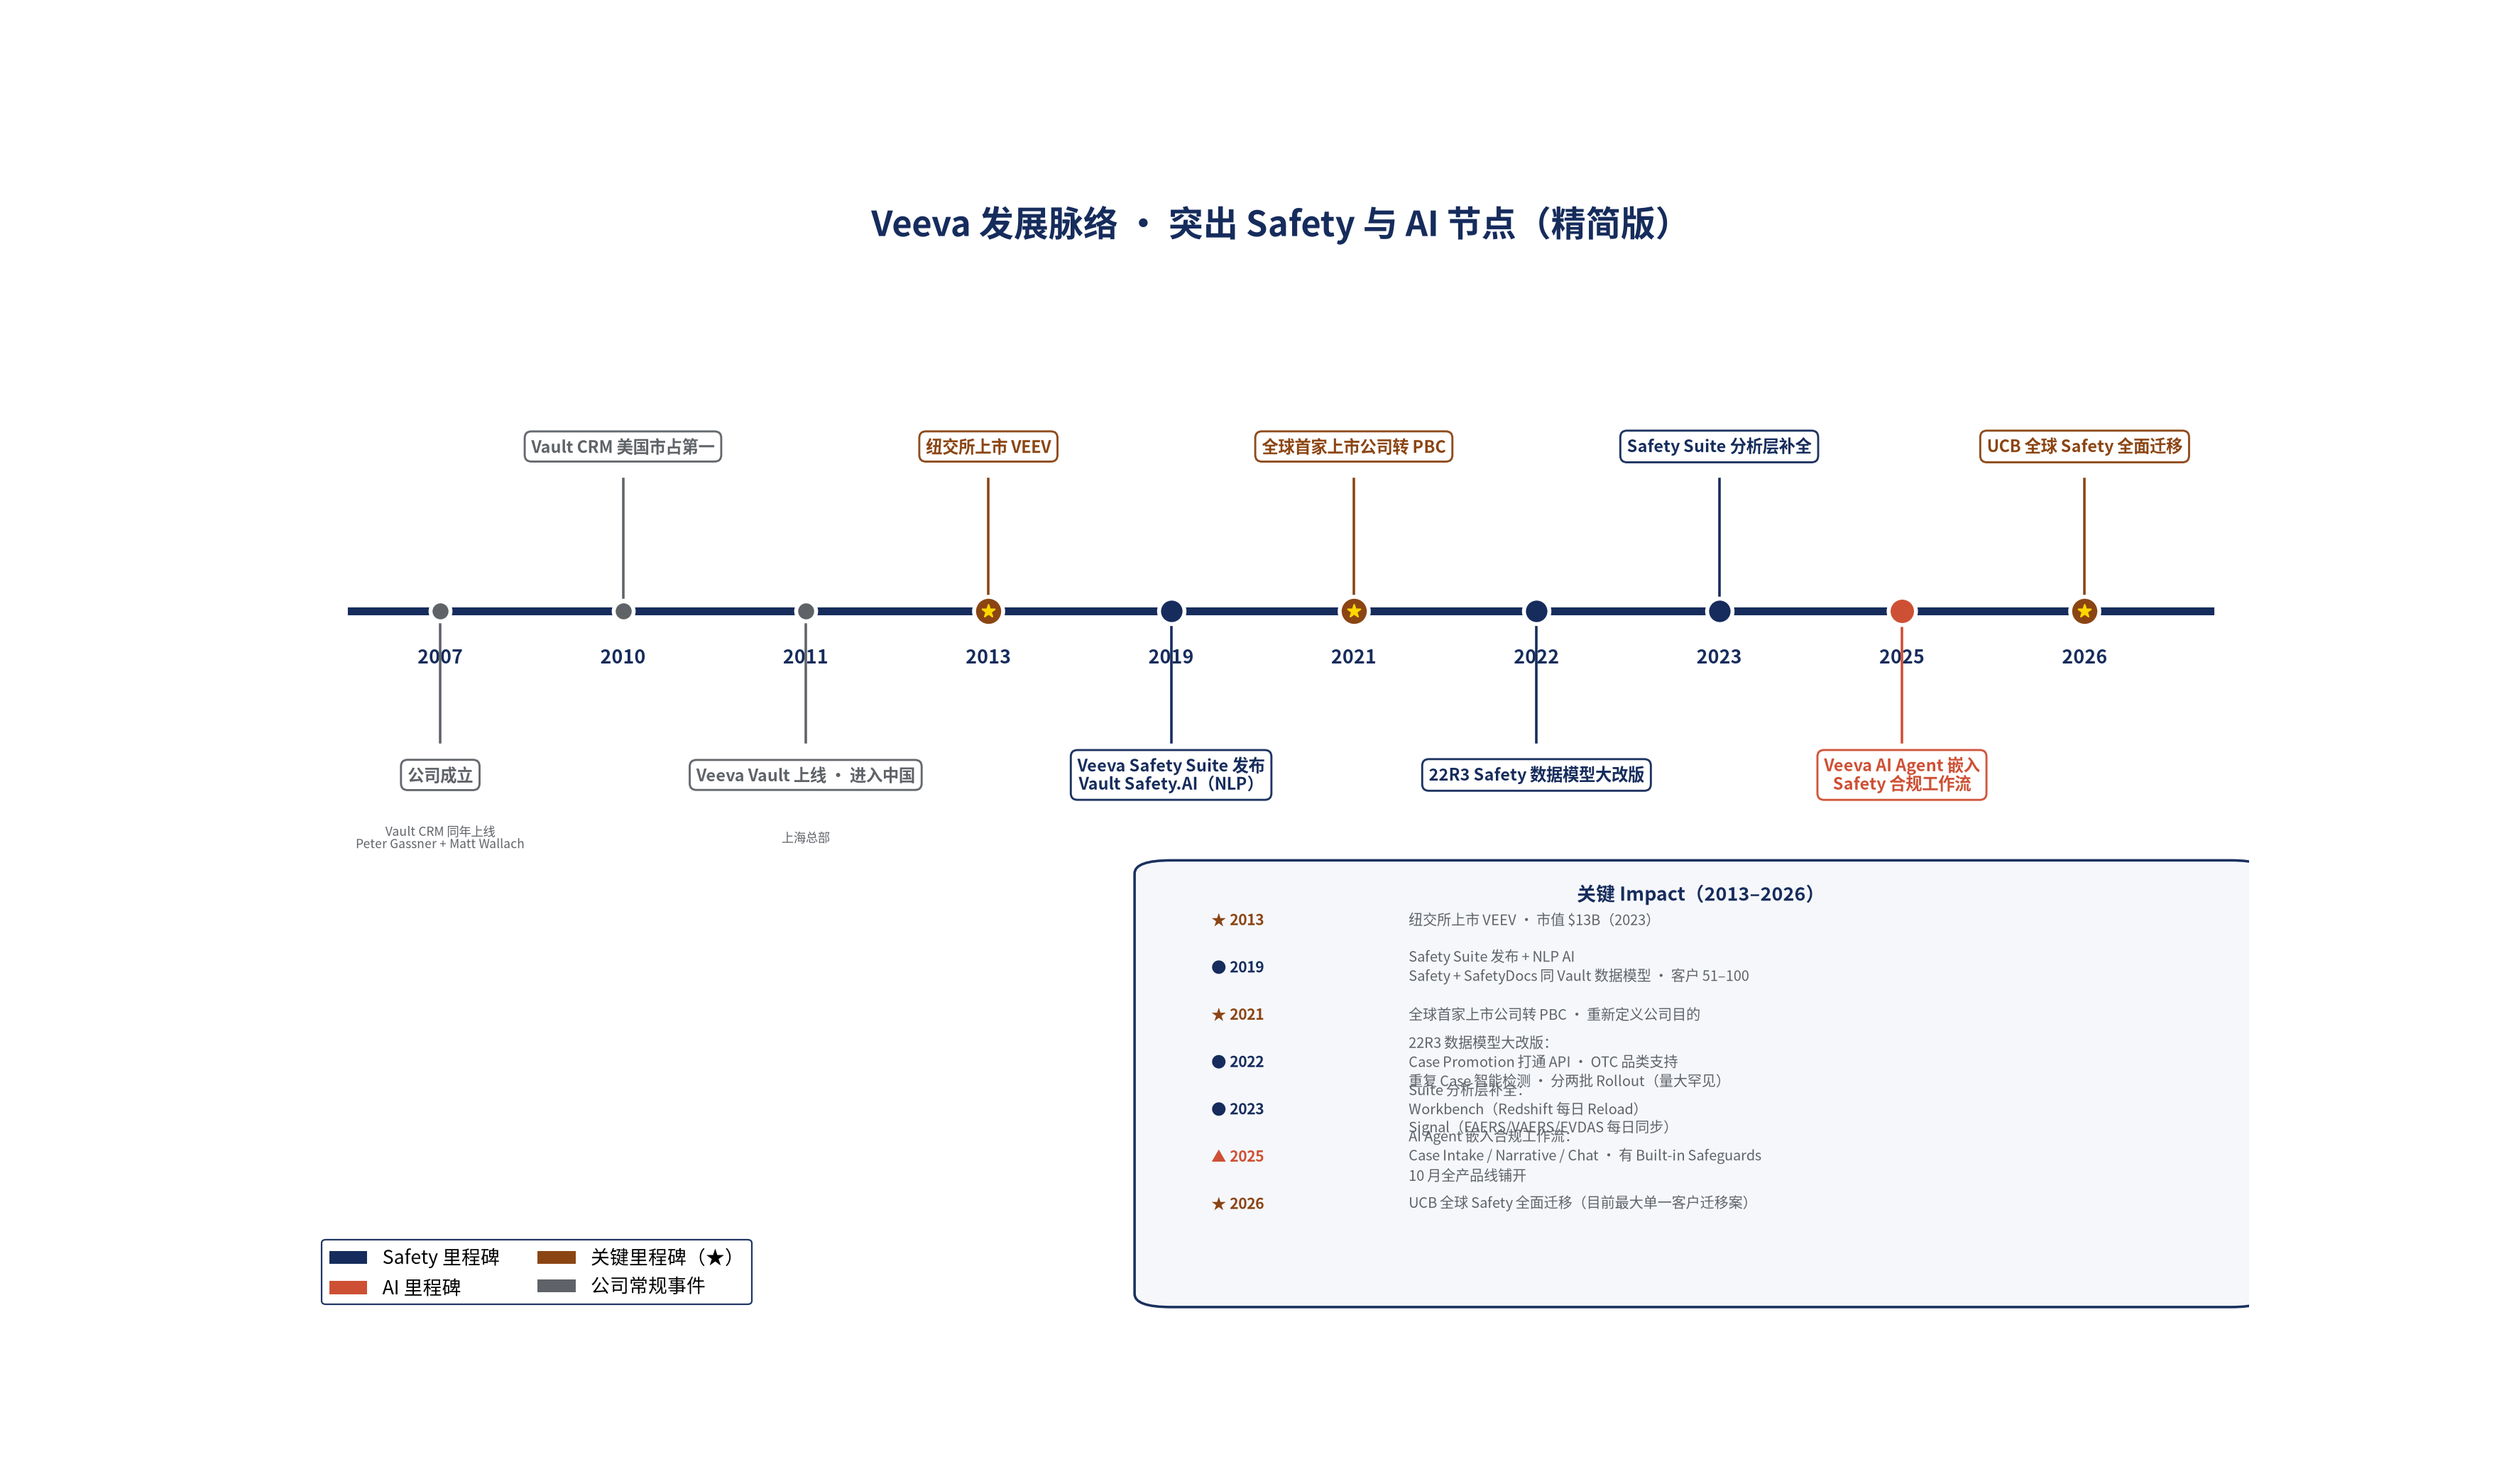
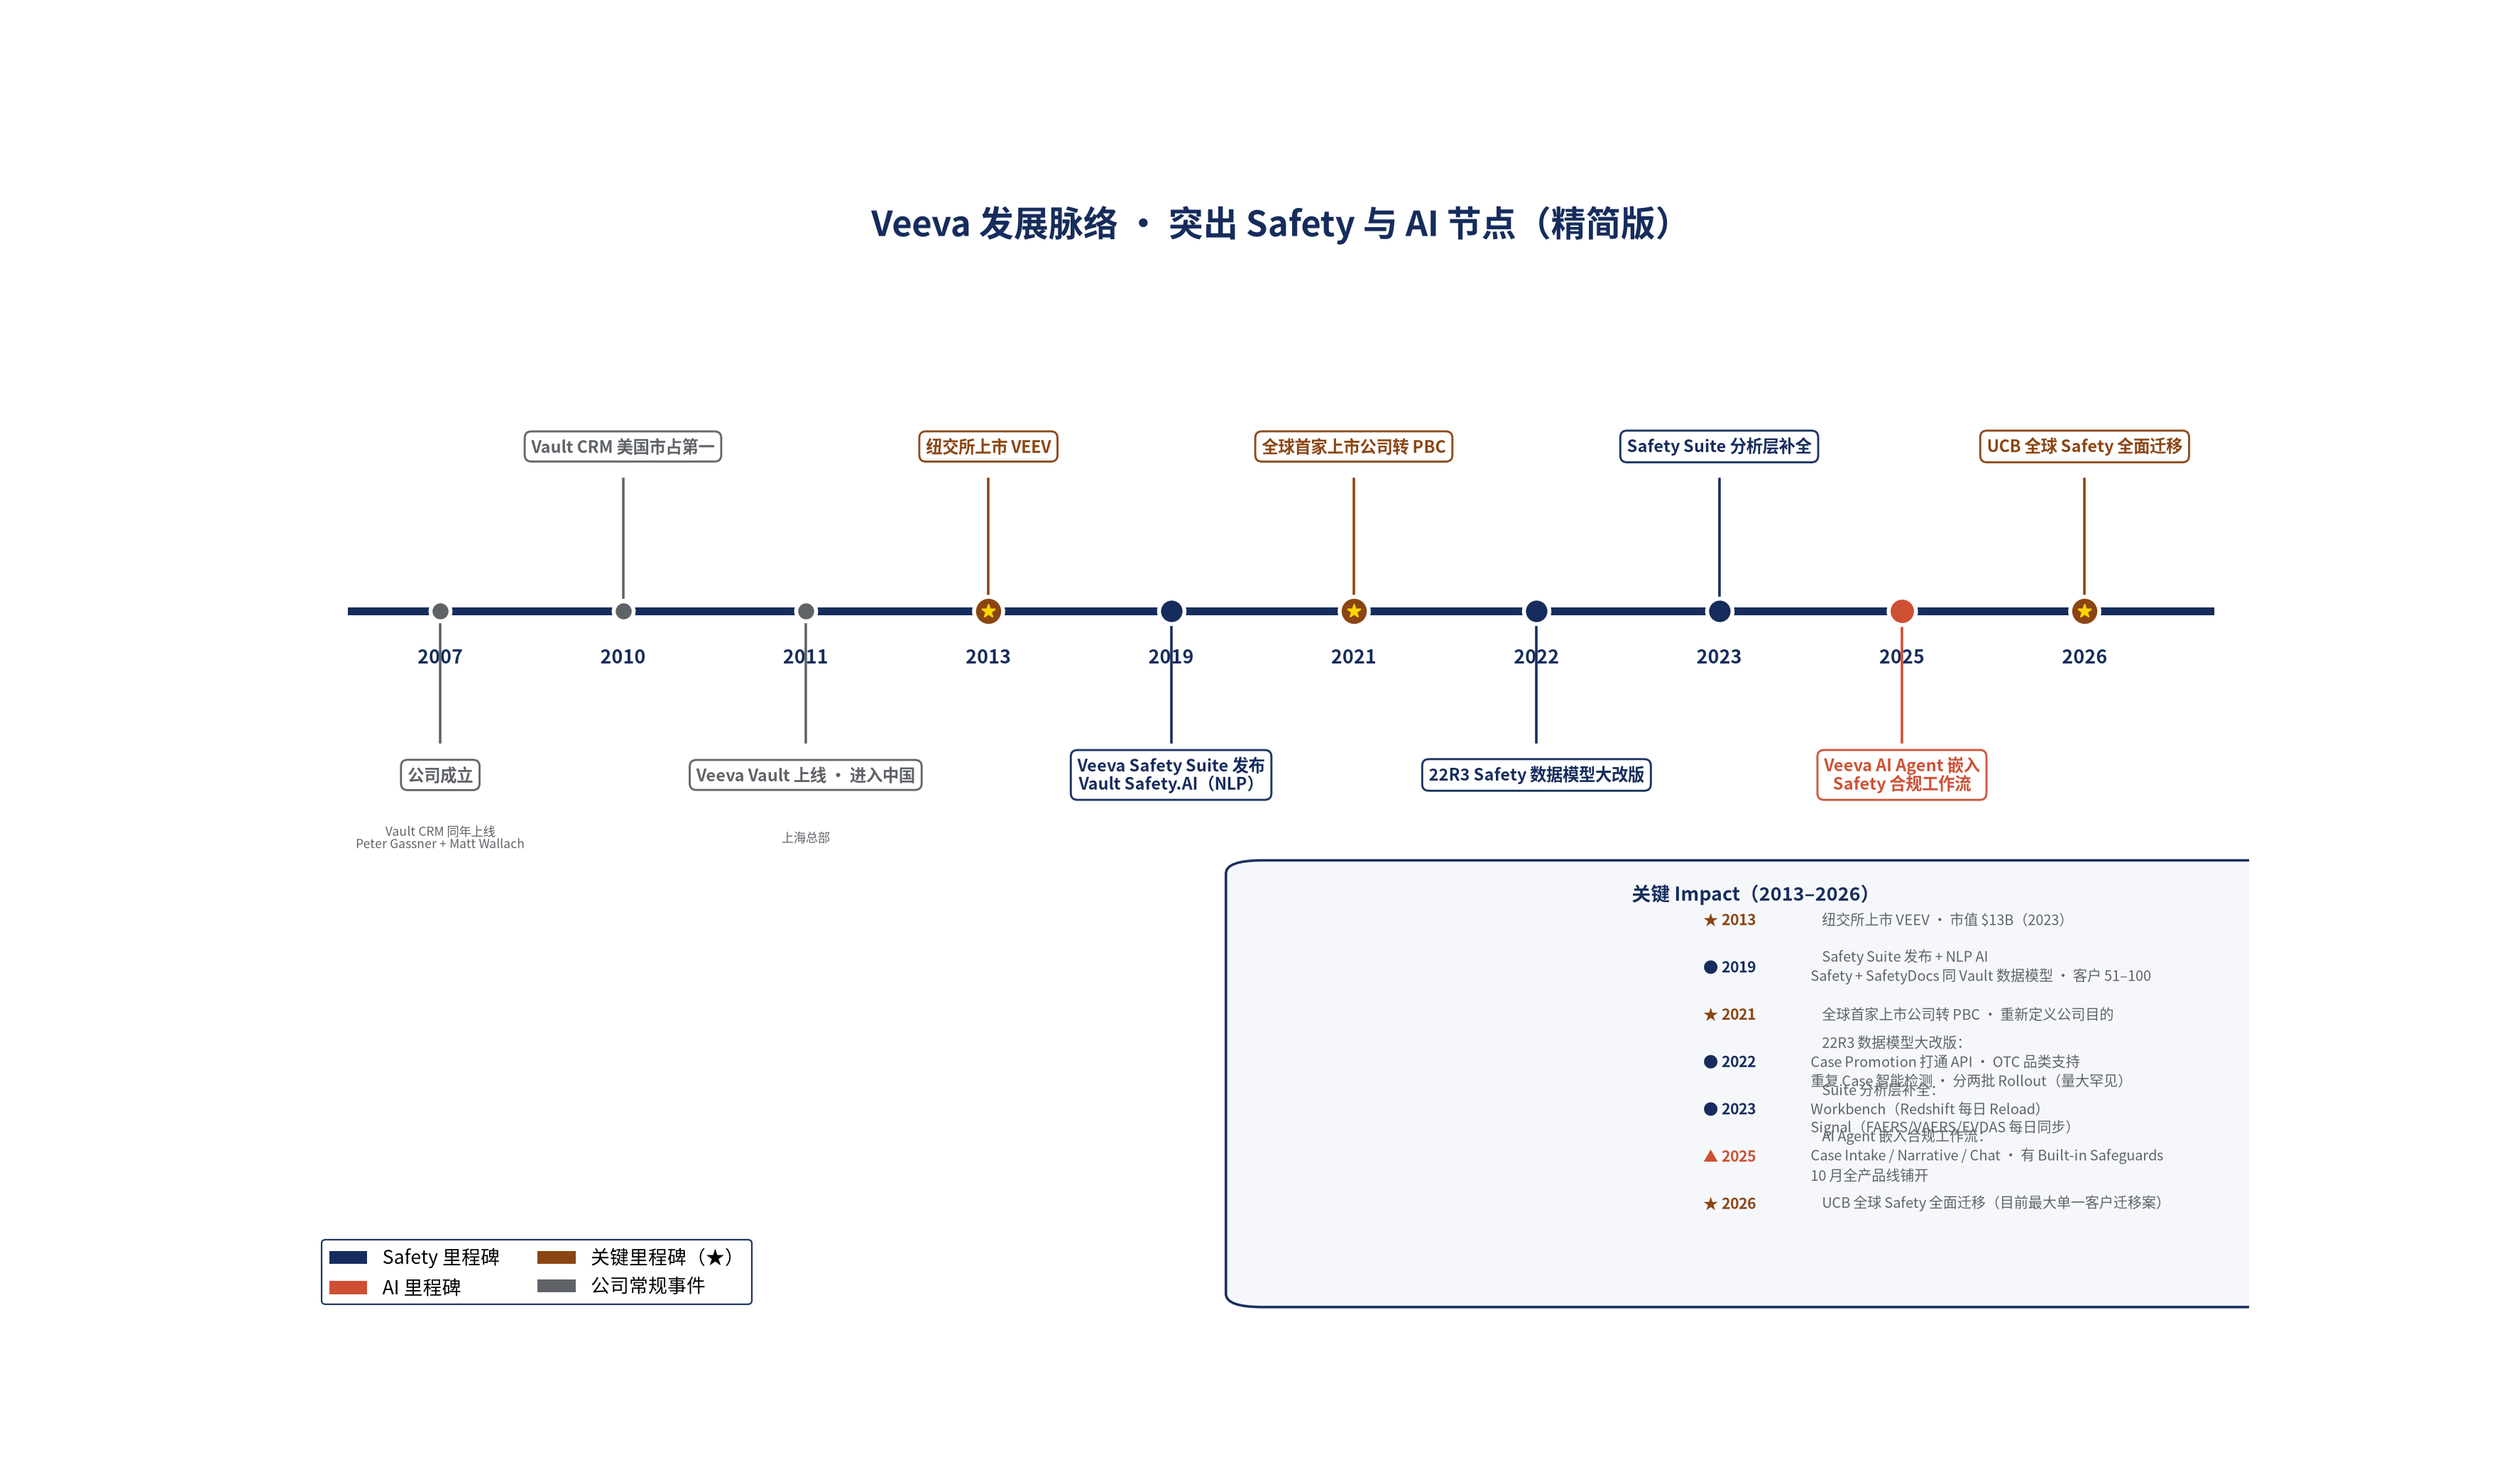
Veeva v3.3：Impact 框右移 + 内容居中，bullet 颜色保持

diff --git a/veeva_timeline_v3.py b/veeva_timeline_v3.py
@@ -90,13 +90,12 @@ for idx, yr, color, title, sub in events:
                 ha='center', va='center', fontsize=7.8, color=GRAY, style='italic',
                 multialignment='center')
 
-# ---------- Impact 框：在画布底部，右下角 ----------
-# 框：右边缘 x=画布右内，左边缘 x=4.0（避开左侧节点区域）
-# 框 y：底部 y=-3.2，顶部 y=3.2 → 高度 6.4，够放 7 条
-right_box_right = n - 0.2       # 右边缘
-right_box_left = 4.0            # 左边缘（画布左算起）
+# ---------- Impact 框：右移 + 内容居中 ----------
+# 框：左边缘 4.5（比之前 4.0 右移 0.5，避开 2025 下方标签），右边缘贴画布右边
+right_box_right = n - 0.1       # 右边缘（贴紧画布）
+right_box_left = 4.5            # 右移 0.5，避开左侧标签
 right_box_w = right_box_right - right_box_left
-right_box_y = -3.2              # 底部
+right_box_y = -3.2
 right_box_h = 6.4
 
 right_box = FancyBboxPatch(
@@ -130,11 +129,17 @@ line_spacing = 0.72
 for i, (bullet, yr, text) in enumerate(impact_lines):
     y = impact_start_y - i * line_spacing
     col = bullet_colors.get(bullet, GRAY)
-    ax.text(right_box_left + 0.22, y, f'{bullet} {yr}',
-            ha='left', va='center', fontsize=9.5, fontweight='bold', color=col, zorder=6)
-    ax.text(right_box_left + 1.30, y, text,
+    # bullet+年份（带色粗体）左半居中，正文（灰色）右半居中
+    # 用两段 text，分别以框中心往左/右偏一点对齐
+    # 先画正文（浅灰），再画 bullet+年份（带色粗体）叠上去
+    bullet_yr_text = f'{bullet} {yr}'
+    ax.text(right_box_left + right_box_w / 2, y, bullet_yr_text,
+            ha='right', va='center', fontsize=9.5, fontweight='bold', color=col, zorder=6)
+    # bullet+年份和正文之间留点空格：用空白把正文往右推
+    spacing = '    '  # 4 个空格
+    ax.text(right_box_left + right_box_w / 2 + 0.30, y, spacing + text,
             ha='left', va='center', fontsize=9, color=GRAY,
-            multialignment='left', linespacing=1.35, zorder=6)
+            multialignment='left', linespacing=1.35, zorder=5)
 
 # ---------- 标题 + 图例 ----------
 ax.text(0.5, 0.975, 'Veeva 发展脉络 · 突出 Safety 与 AI 节点（精简版）',
